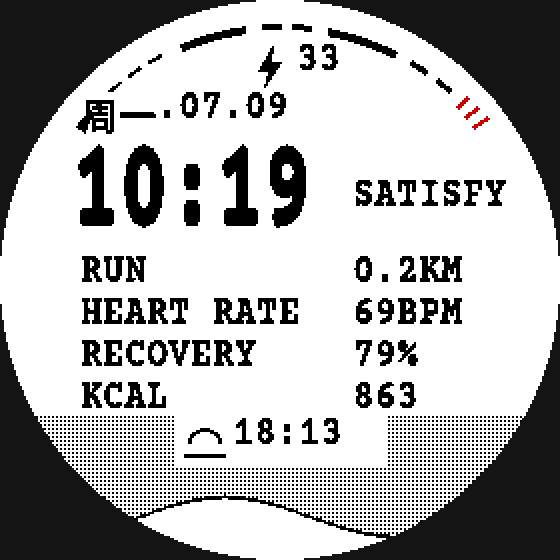
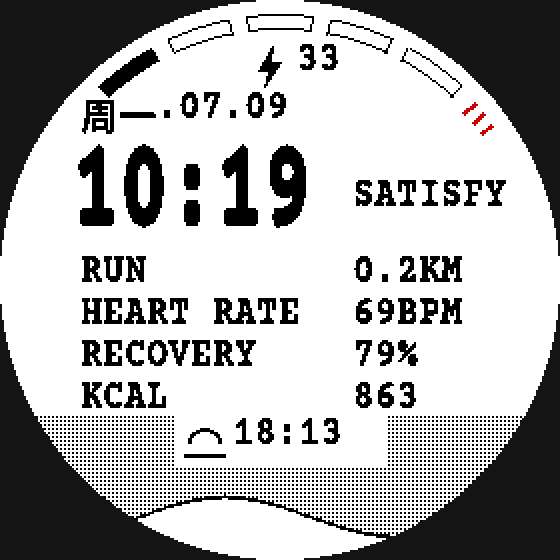
Top scale: hollow segmented bar filled by battery level, matching the reference

Changed region(s): [[0.3036, 0.0, 0.8804, 0.2429], [0.1821, 0.0911, 0.3036, 0.1821], [0.1214, 0.2125, 0.1518, 0.2429]]

diff --git a/preview.py b/preview.py
@@ -72,23 +72,30 @@ d.arc([scx - 46, scy - 6, scx - 30, scy + 8], 180, 360, fill=(0, 0, 0, 255), wid
 d.line([scx - 48, scy + 7, scx - 28, scy + 7], fill=(0, 0, 0, 255), width=2)
 draw_text(img, ftext, scx - 24, scy - 15, "18:13")
 
-# top scale (mirrors DASHES in TypeFaceView.mc; Garmin deg -> PIL deg is 360-a)
-DASH_R = 128
-dashes = [
-    (138.0, 5.0, 4),
-    (129.0, 3.0, 2), (123.5, 3.0, 2), (118.0, 3.0, 2),
-    (98.0, 15.0, 4),
-    (90.0, 4.0, 3), (83.0, 4.0, 3),
-    (63.0, 16.0, 4),
-    (55.0, 4.0, 3), (48.0, 4.0, 3),
-]
-for a0, ln, pw in dashes:
-    d.arc([CX - DASH_R, CY - DASH_R, CX + DASH_R, CY + DASH_R],
-          360 - (a0 + ln), 360 - a0, fill=(0, 0, 0, 255), width=pw)
-for a in (44.0, 41.0, 38.0):  # red ticks, right end
+# top scale: hollow segments filled from the left by battery (mirrors drawScale in TypeFaceView.mc)
+SEG_COUNT, SEG_LEN, SEG_GAP, SEG_R_OUT, SEG_R_IN = 5, 14.0, 4.0, 132, 125
+BATT = 33
+def bbox(r):
+    return [CX - r, CY - r, CX + r, CY + r]
+def radial(a, r0, r1, fill, w):
     c, sn = math.cos(math.radians(a)), math.sin(math.radians(a))
-    d.line([(CX + (DASH_R - 4) * c, CY - (DASH_R - 4) * sn),
-            (CX + (DASH_R + 4) * c, CY - (DASH_R + 4) * sn)], fill=(200, 0, 0, 255), width=2)
+    d.line([(CX + r0 * c, CY - r0 * sn), (CX + r1 * c, CY - r1 * sn)], fill=fill, width=w)
+filled = min(SEG_COUNT, BATT // 20)
+total = SEG_COUNT * SEG_LEN + (SEG_COUNT - 1) * SEG_GAP
+left = 90.0 + total / 2
+BLACK = (0, 0, 0, 255)
+for i in range(SEG_COUNT):
+    a1 = left - i * (SEG_LEN + SEG_GAP)
+    a0 = a1 - SEG_LEN
+    if i < filled:   # PIL arc draws inward from bbox, Garmin centers the pen on r
+        d.arc(bbox(SEG_R_OUT + 1), 360 - a1, 360 - a0, fill=BLACK, width=SEG_R_OUT - SEG_R_IN + 1)
+    else:
+        d.arc(bbox(SEG_R_OUT + 1), 360 - a1, 360 - a0, fill=BLACK, width=1)
+        d.arc(bbox(SEG_R_IN + 1), 360 - a1, 360 - a0, fill=BLACK, width=1)
+        radial(a0, SEG_R_IN, SEG_R_OUT, BLACK, 1)
+        radial(a1, SEG_R_IN, SEG_R_OUT, BLACK, 1)
+for a in (42.0, 39.0, 36.0):  # red ticks, right end
+    radial(a, SEG_R_IN, SEG_R_OUT, (200, 0, 0, 255), 2)
 
 # battery
 draw_text(img, ftext, CX + 8, BATT_Y, "33")

diff --git a/README.md b/README.md
@@ -12,7 +12,8 @@ SATISFY × COROS APEX 4 exclusive watch faces and recreating that feel on Garmin
 - Heavy condensed typewriter time display (Courier Prime, bitmap-rendered for crisp 1-bit MIP output)
 - Data rows, SATISFY style: RUN (today's distance), HEART RATE, RECOVERY (Body Battery), KCAL
 - Chinese weekday date (周一.07.09 style), battery with bolt icon
-- Distressed dashed scale along the top arc, with three red ticks at the right end
+- Segmented battery bar along the top arc (5 hollow segments, filled from the left, 20% each),
+  with three red ticks at the right end
 - Dot-grid halftone band with hill silhouette and next sun event (sunrise / sunset) at the bottom
 
 ## Build & install
@@ -31,8 +32,8 @@ Other resolutions need the layout constants adjusted.
 ## Customization
 
 All layout lives in `source/TypeFaceView.mc` as constants at the top of the class
-(coordinates, row positions, the `LABEL` text in the right column, the `DASHES` list
-for the top scale).
+(coordinates, row positions, the `LABEL` text in the right column, the `SEG_*` constants
+for the top bar).
 
 Two helper scripts (Python 3 + Pillow, `pip install Pillow`):
 
